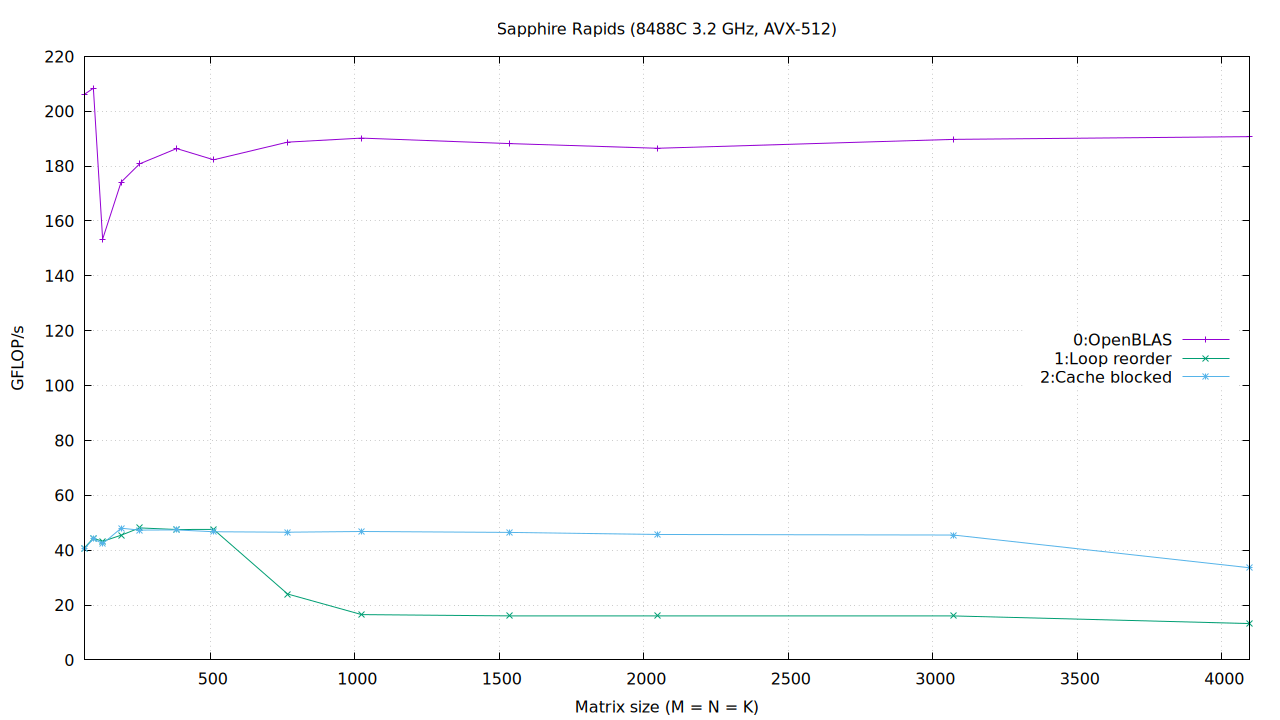
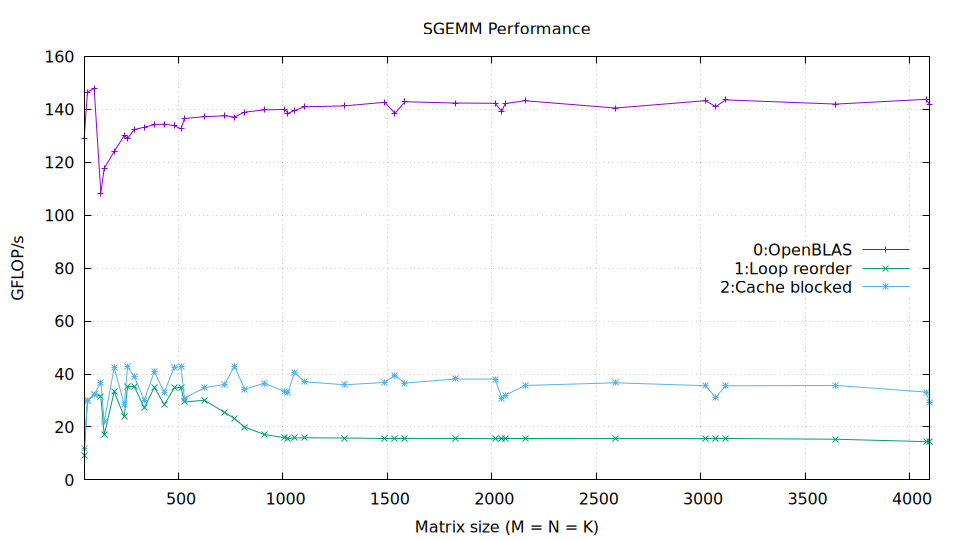
update spr plots

diff --git a/README.md b/README.md
@@ -70,9 +70,16 @@ further improve throughput for both full and partial tiles.
 The final AVX2 kernel reaches 69 GFLOP/s versus OpenBLAS at 72 GFLOP/s—about
 96% of OpenBLAS performance and within 5% of it.
 
-### Intel Xeon Platinum 8488C @ 3.2 GHz (AVX-512)
+### Intel Xeon Platinum 8488C @ 2.4 GHz (AVX-512)
 
-The theoretical single-core peak is `2 FMAs/cycle × 2 operations/FMA × 16 floats/FMA × 3.2 GHz = 204.8 GFLOP/s`.
+> [!INFO] 
+> Intel CPUs have a known frequency regression on pure AVX-512 workloads. These tests were run on an AWS instance without bare-metal access (and hence no clock pinning). Core frequencies were inferred using `perf` cycles and task-clock events.
+> Loaded AVX-512 frequency: 2.4GHz
+> Loaded AVX2 frequency: 2.9GHz
+
+The theoretical AVX-512 single-core peak is `2 FMAs/cycle × 2 operations/FMA × 16 floats/FMA × 2.4 GHz = 153.6 GFLOP/s`.
+
+The theoretical AVX2 single-core peak is `2 FMAs/cycle × 2 operations/FMA × 8 floats/FMA × 2.9 GHz = 92.8 GFLOP/s`.
 
 **Kernel 1 — Loop reordering:** Reorder the scalar loops to `i-k-j` so each
 value from A is reused while B and C are traversed contiguously.
